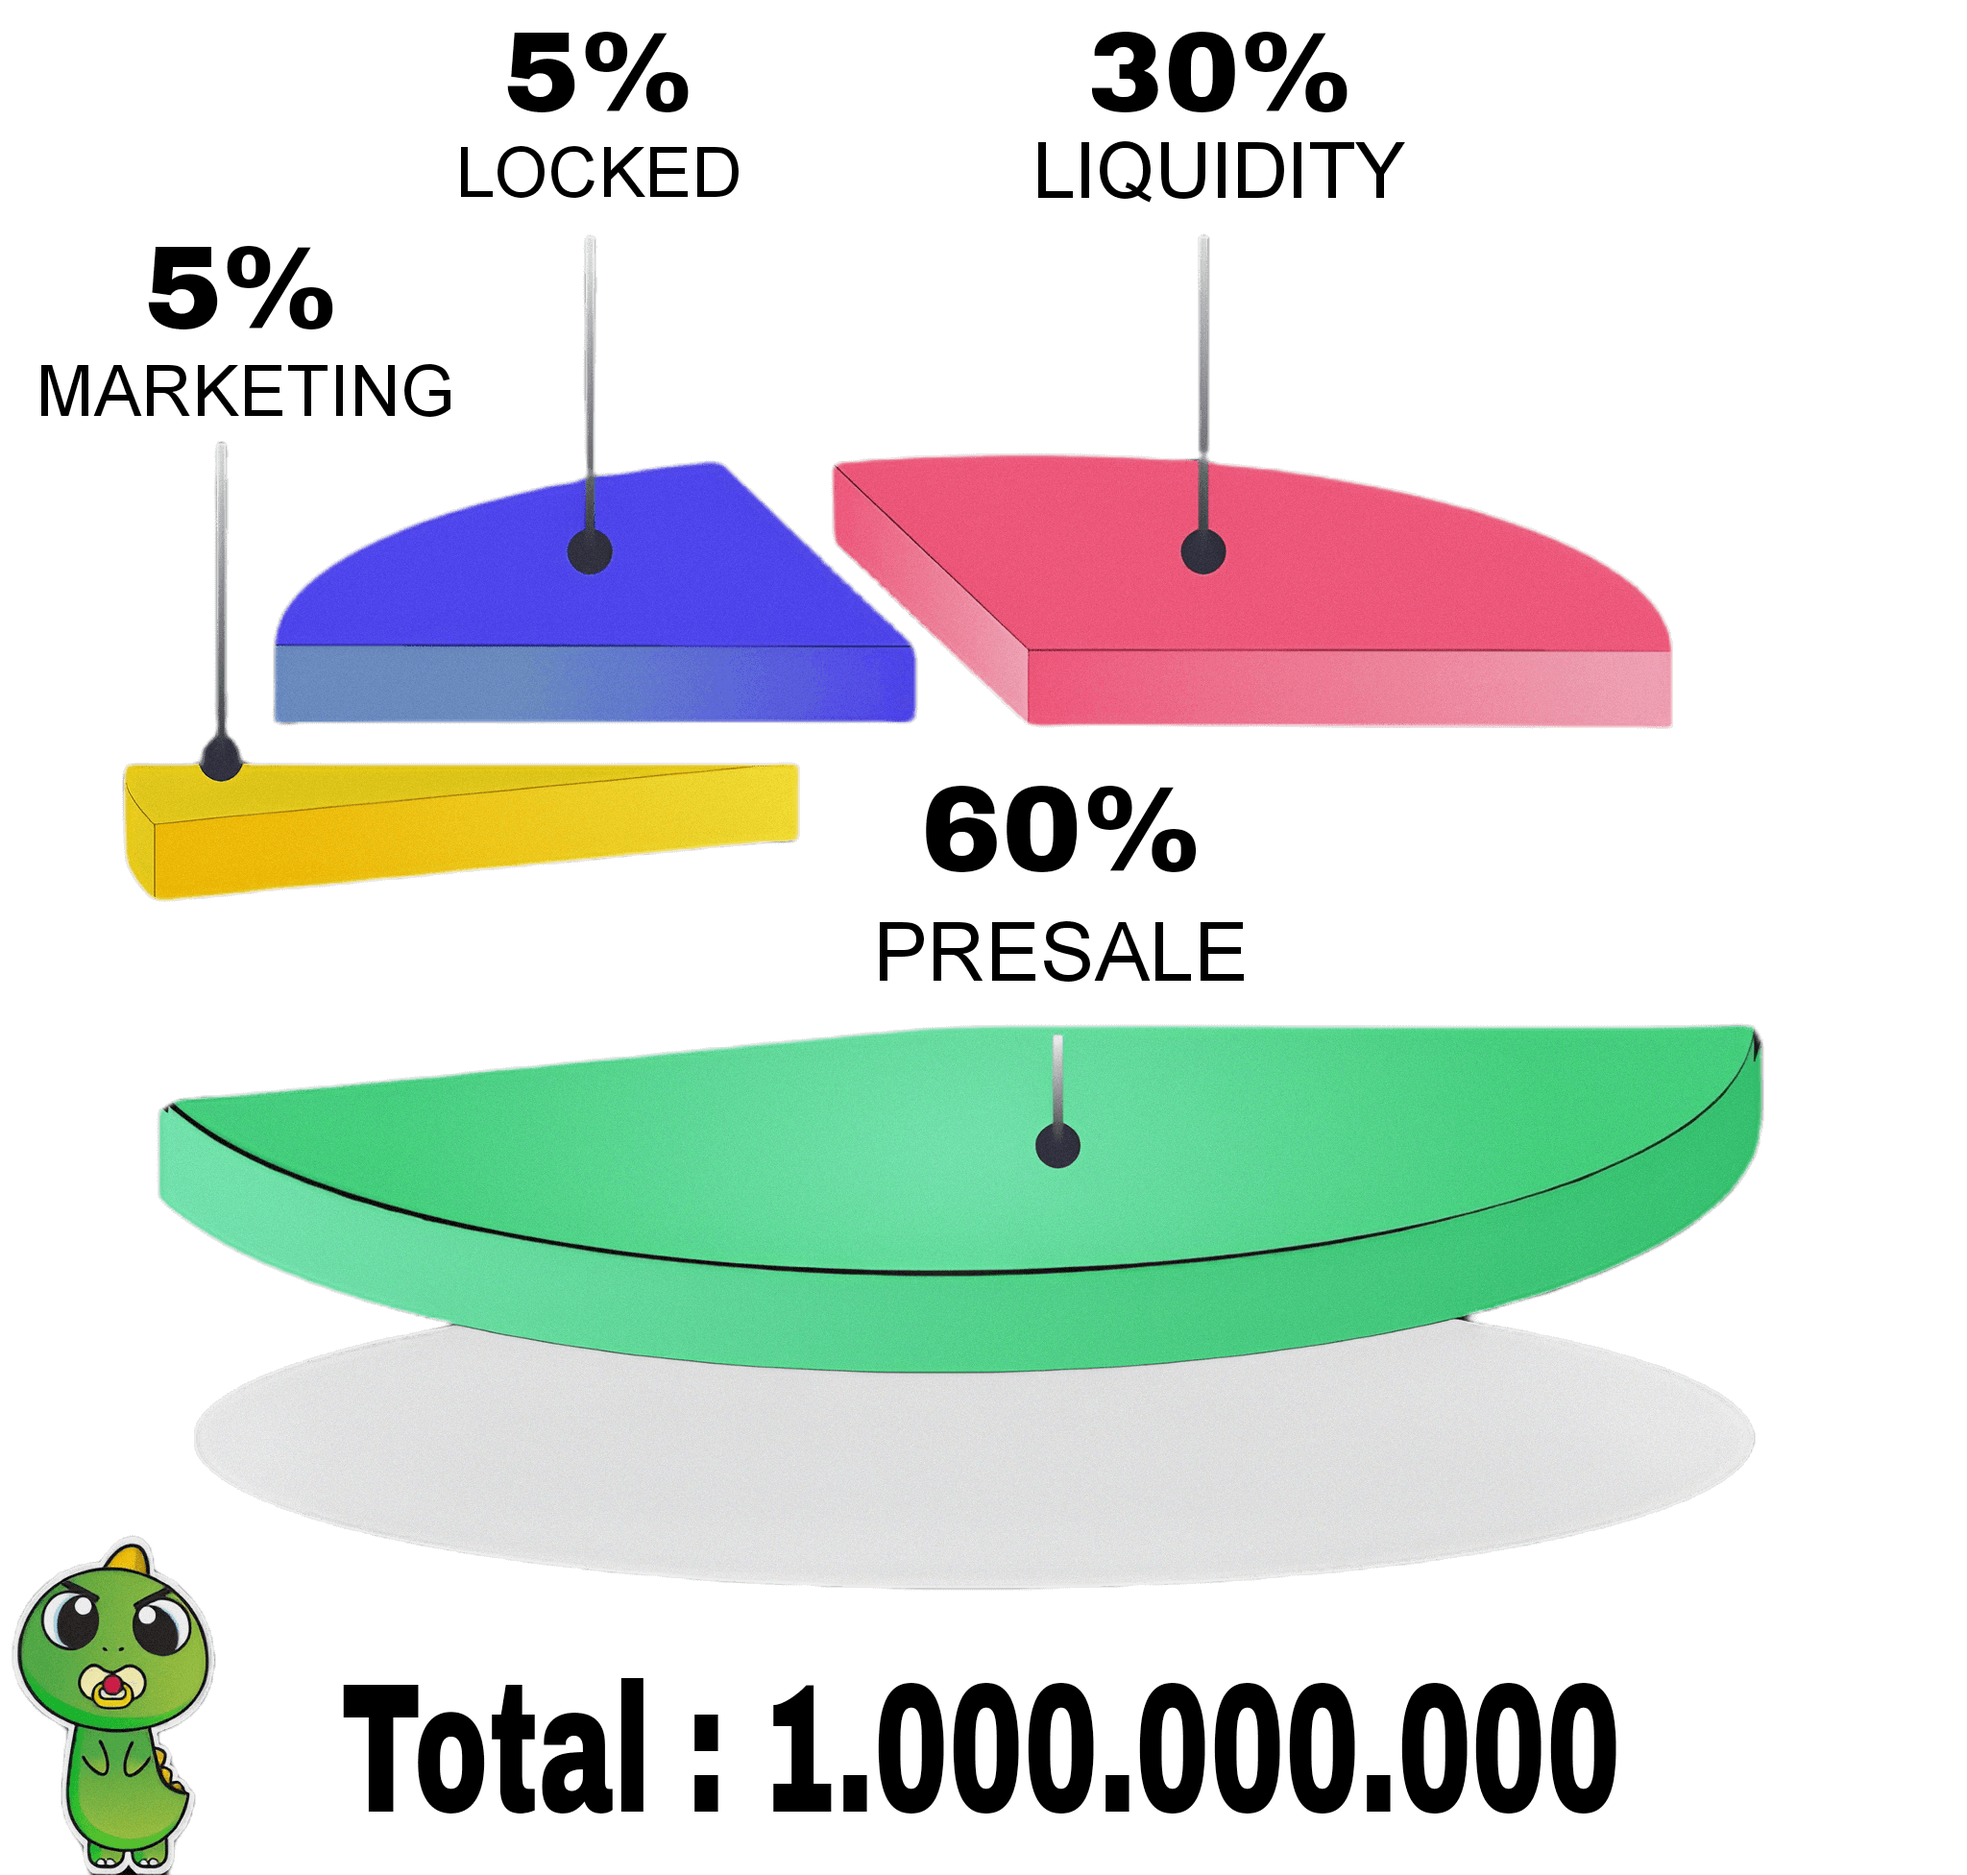
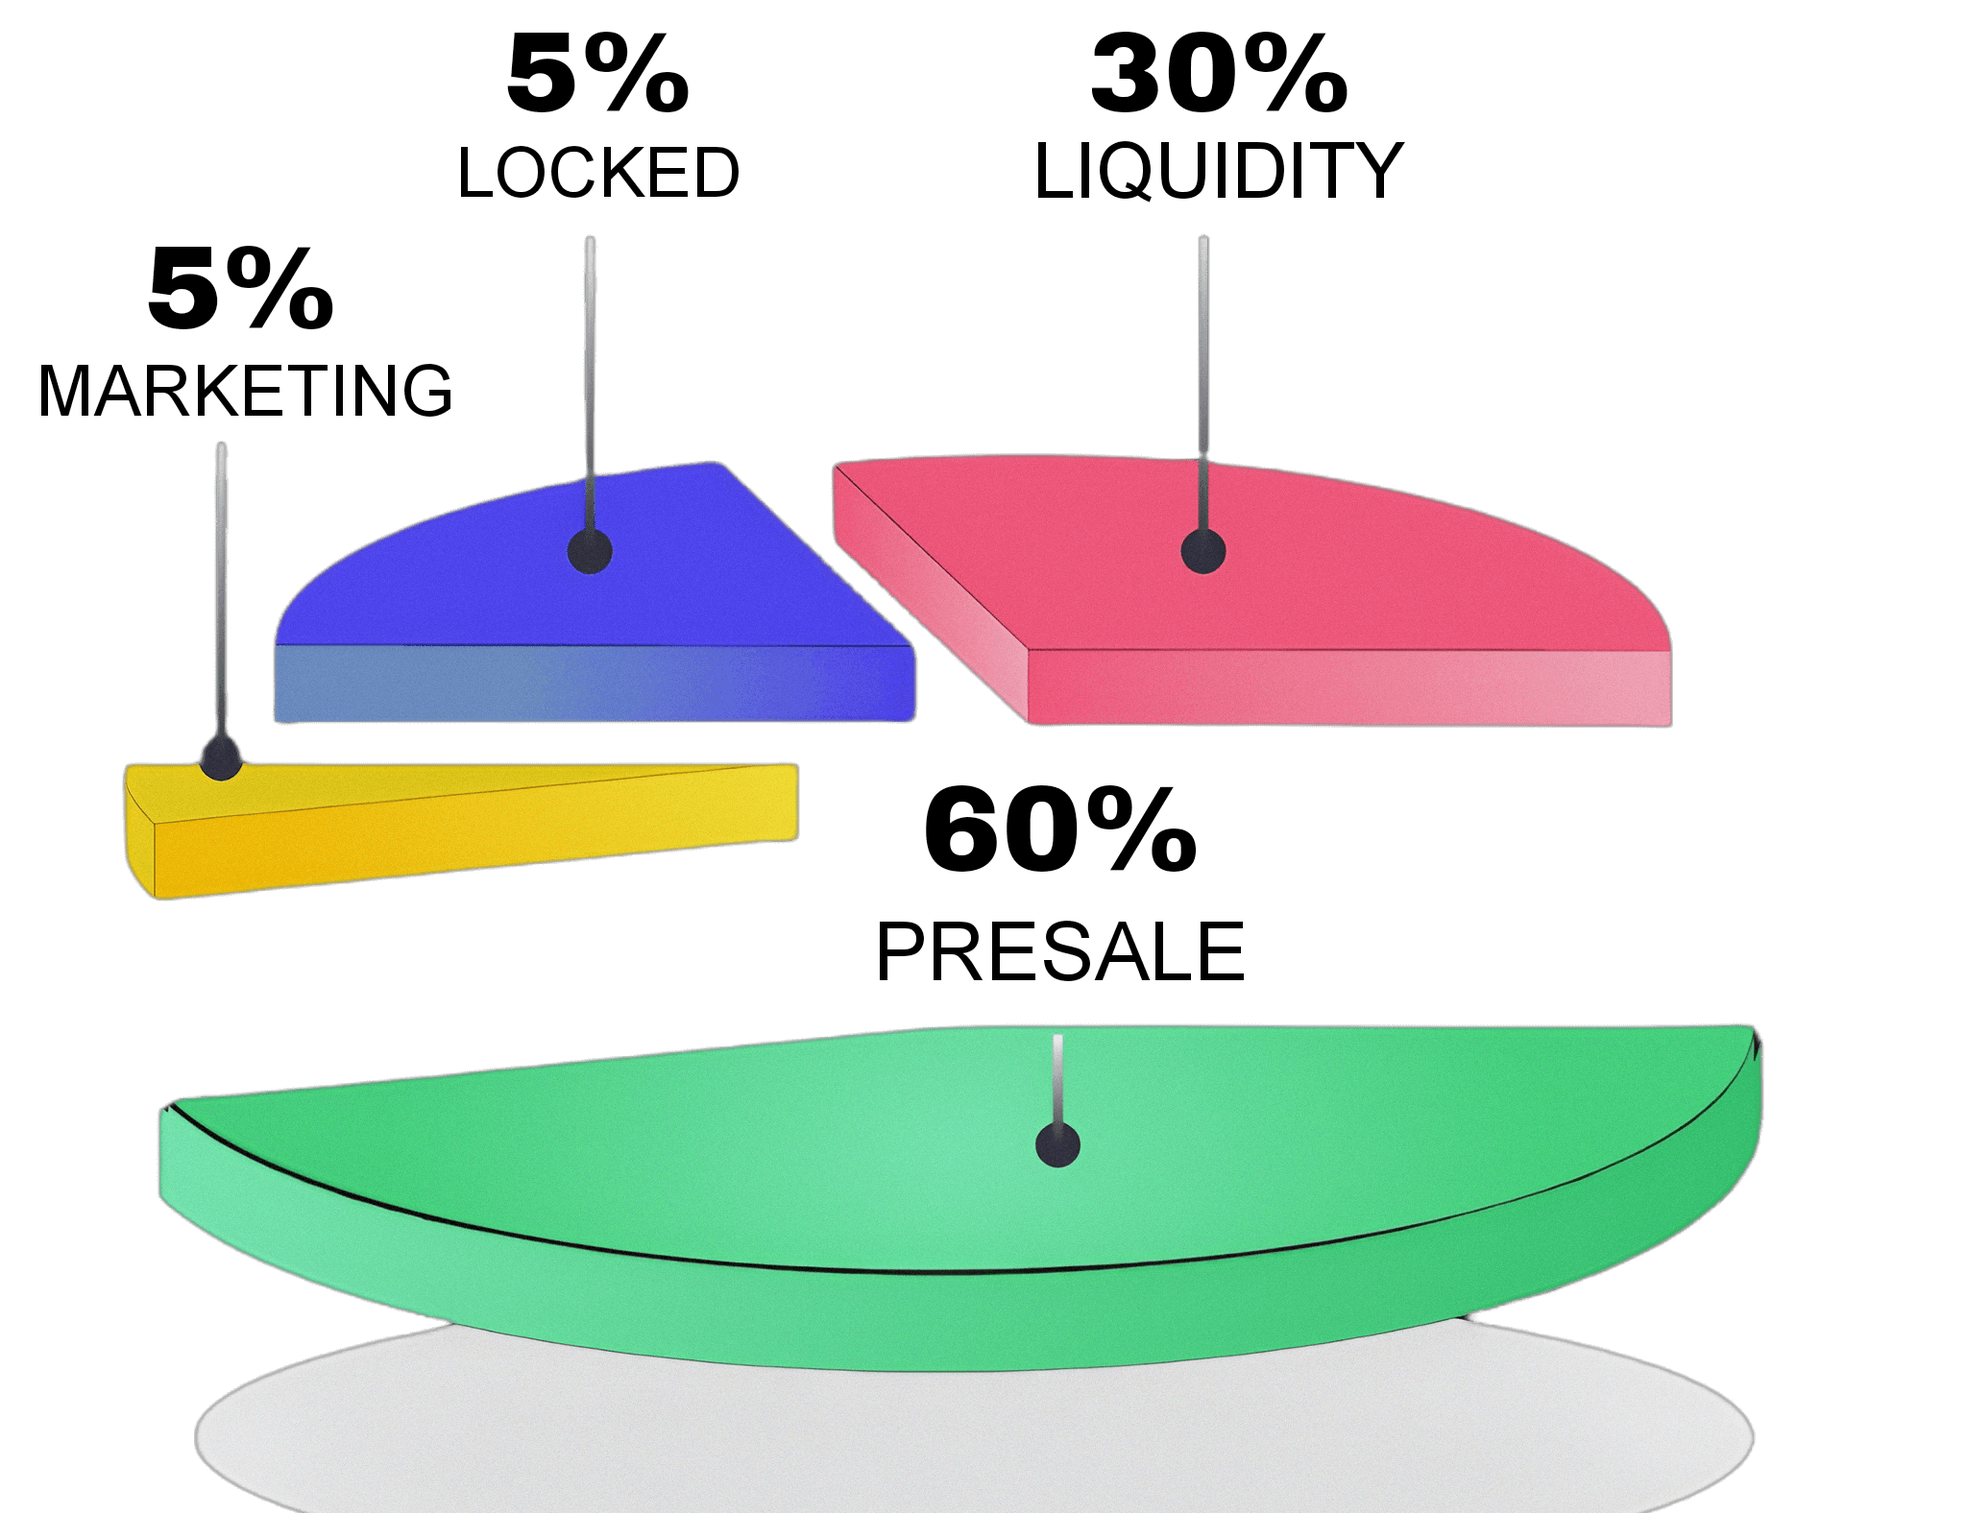
thrid commit

diff --git a/src/sections/Chart.jsx b/src/sections/Chart.jsx
@@ -2,17 +2,28 @@ import React from "react";
 import Section from "../components/Section";
 import MainHeader from "../components/ui/MainHeader";
 import chart from "../assets/03.png";
+import logo from "../assets/Yooshicoin_02.png";
 
 export default function Chart() {
   return (
     <Section id={"charts"}>
       <div className="container">
         <MainHeader title={"CHART"} header={"Tokenomics"} />
-        <div className="flex justify-center">
+        <div className="flex flex-col justify-center items-center">
           <img
             src={chart}
             className="object-contain w-[90%] md:w-[30%] min-w-[310px]"
           />
+
+          <div className="flex items-center mt-8 justify-center gap-3">
+            <img src={logo} className="w-[60px] h-[60px] object-contain" />
+            <h4
+              style={{ fontFamily: "sans-serif" }}
+              className="text-center font-black text-3xl"
+            >
+              Total : 1.000.000.000
+            </h4>
+          </div>
         </div>
       </div>
     </Section>
